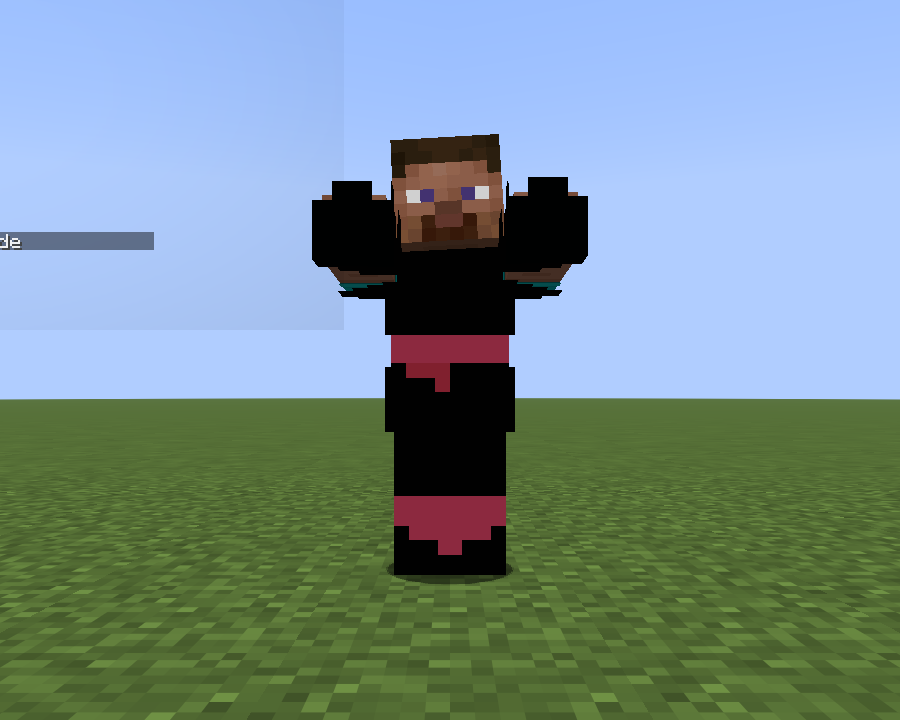
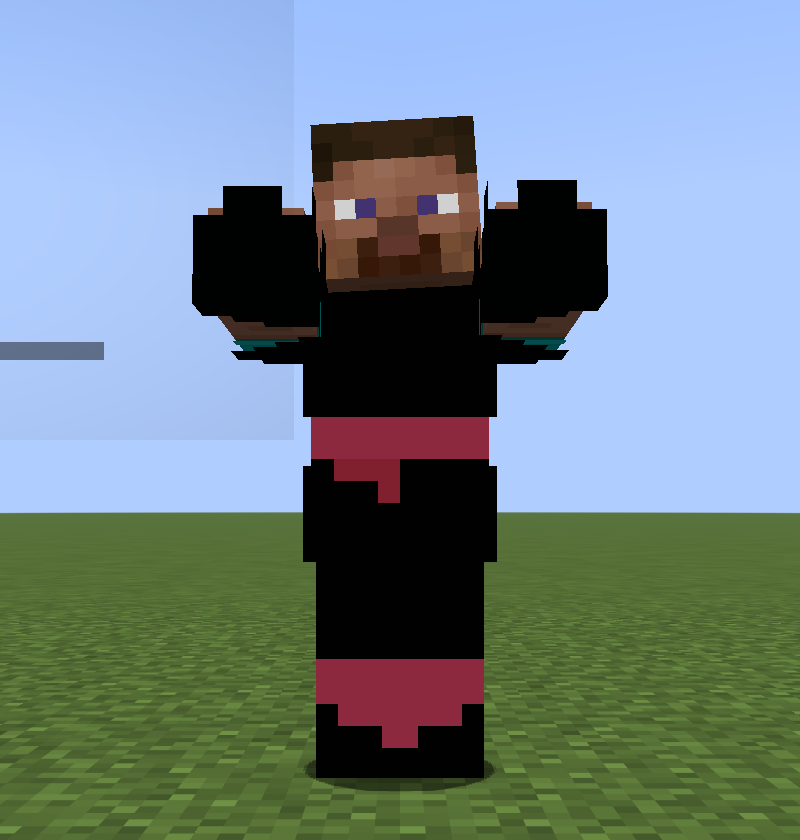
ovvar: the gesture frames through a narrower field of view
Danse's camera and vanilla's third person both sit a few blocks off, so the figure was a
quarter of the frame tall and its patches looked coarser than they are. The test now takes
both frames at a 50° field of view: the figure fills the frame at the pack's own resolution.
docs/danse/ re-cropped.

diff --git a/mods/ovvar/src/gametest/java/metacraft/ovvar/clienttest/OvvarDanseClientTests.java b/mods/ovvar/src/gametest/java/metacraft/ovvar/clienttest/OvvarDanseClientTests.java
@@ -66,6 +66,8 @@ public final class OvvarDanseClientTests implements FabricClientGameTest {
 	 */
 	private static final String GESTURE = "zombie";
 	private static final int GESTURE_TICKS = 105;   // 5.25 s
+	/** Field of view for the two frames: the figure fills the frame instead of a quarter of it. */
+	private static final int FOV = 50;
 
 	/**
 	 * Can Danse start a gesture in this JVM at all?
@@ -157,6 +159,10 @@ public final class OvvarDanseClientTests implements FabricClientGameTest {
 				// stack trace.
 				server.runOnServer(mc -> de.tomalbrc.danse.GestureController.onStart(
 						mc.getPlayerList().getPlayers().getFirst(), GESTURE));
+				// Danse's camera and vanilla's third person both sit a few blocks off, which leaves the
+				// figure a quarter of the frame tall; a narrow field of view fills the frame with it at
+				// the pack's full resolution instead. Both frames are taken through it.
+				ctx.runOnClient(client -> client.options.fov().set(FOV));
 				ctx.waitTicks(60);            // the camera swings out and settles; zombie's arms are out from 0.8 s
 				conn.waitForClientboundPackets();
 
